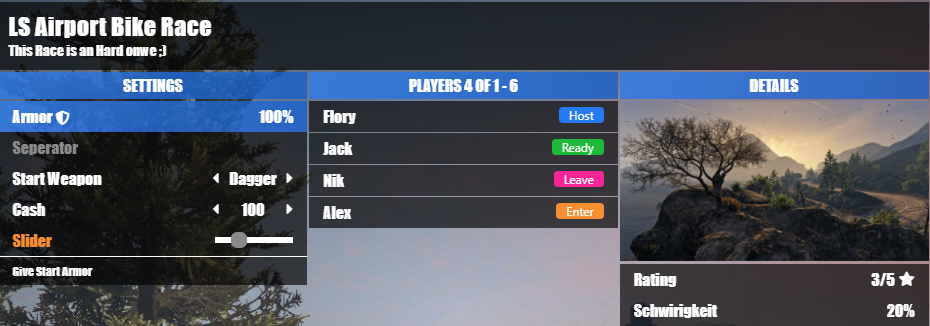
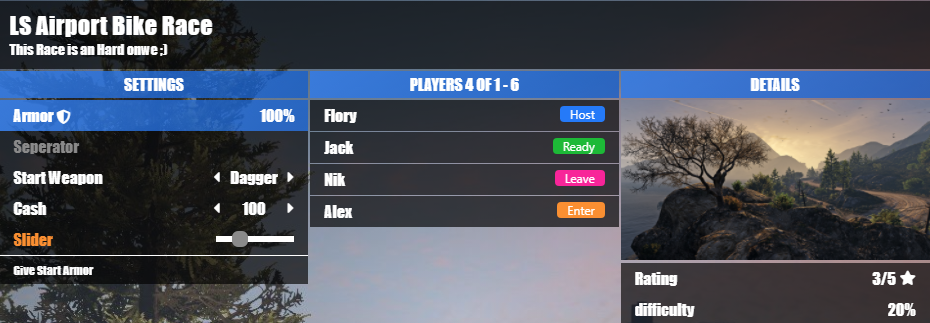
Add files via upload

diff --git a/README.md b/README.md
@@ -771,9 +771,9 @@ MainPlayers.addItem(new VMenu.GPlayer("Nik", VMenu.STATUS_LEAVE));
 MainPlayers.addItem(new VMenu.GPlayer("Alex", VMenu.STATUS_ENTER));
 
 // 5. Setup an VMenu Details Tab.
-const MainDetails = new VMenu.GDetails("./css/test_2.jpg");
+const MainDetails = new VMenu.GDetails("./assets/bg_2.jpg");
 MainDetails.addItem(new VMenu.GDetail("Rating", "3/5", "fas fa-star"));
-MainDetails.addItem(new VMenu.GDetail("Schwirigkeit", "20%"));
+MainDetails.addItem(new VMenu.GDetail("difficulty", "20%"));
 
 // 6. Add Tab to VMenu.
 MainMenu.addItem(MainSettings);
@@ -822,7 +822,7 @@ let player_4 = new VMenu.GPlayer("Alex", VMenu.STATUS_ENTER);
 MainPlayers.addItem(player_4);
 
 // 5. Setup an VMenu Details Tab.
-const MainDetails = new VMenu.GDetails("./css/test_2.jpg");
+const MainDetails = new VMenu.GDetails("./assets/bg_2.jpg");
 MainDetails.addItem(new VMenu.GDetail("Rating", "3/5", "fas fa-star"));
 MainDetails.addItem(new VMenu.GDetail("difficulty", "20%"));
 
